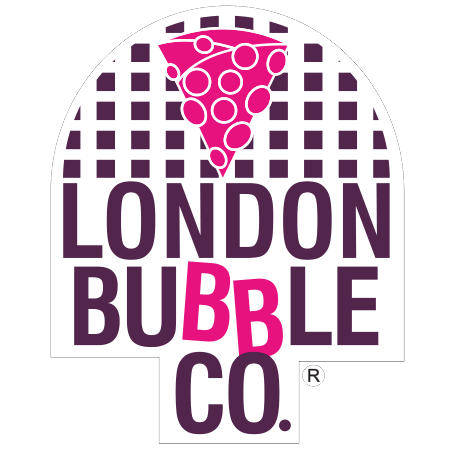
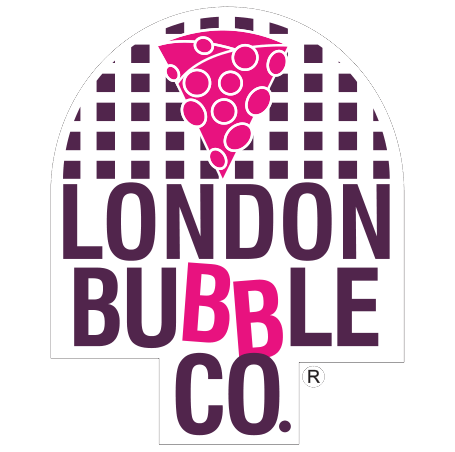
sponsors

diff --git a/src/Sections/Sponsors/Sponsors.jsx b/src/Sections/Sponsors/Sponsors.jsx
@@ -1,18 +1,4 @@
 import React, { useEffect } from "react";
-// import CC from "../../Assets/coca-cola-logo.png";
-// import P from "../../Assets/paytm.png";
-// import SC from "../../Assets/snapchat.png";
-// import SP from "../../Assets/spotify.png";
-// import IX from "../../Assets/ixigo.png";
-// import JB from "../../Assets/jetbrains.png";
-// import WO from "../../Assets/wooplr.png";
-// import IS from "../../Assets/internshala.png";
-// import ZP from "../../Assets/zebpay.png";
-// import GM from "../../Assets/geeksmate.png";
-// import YS from "../../Assets/yourstory.png";
-// import KK from "../../Assets/kaspersky.png";
-
-//NEW SPONSORS START FROM HERE
 import AW from "../../Assets/AWS.png";
 import DF from "../../Assets/Devfolio.png";
 import WS from "../../Assets/WSS.png";
@@ -26,9 +12,10 @@ import DS from "../../Assets/DSIJ.png";
 import EL from "../../Assets/ELM.png";
 import SE from "../../Assets/StockEdge.png";
 import DZ from "../../Assets/Drinkzy.jpg";
-import LB from "../../Assets/LondonBubble3.png";
+import LB from "../../Assets/LondonBubble.png";
 import GMC from "../../Assets/GMC.png";
 import NP from "../../Assets/NutriPanda.jpg";
+import SR from "../../Assets/scripts.png";
 
 import "./Sponsors.css";
 import Aos from "aos";
@@ -42,12 +29,12 @@ function Sponsors() {
   return (
     <div className="past-sponsors" id="sponsors">
       <div className="sponsor-head">
-        <span>Our Sponsors</span>
+        <span>Sponsors</span>
       </div>
       <div className="grid-container">
         <div data-aos="flip-up" className="grid-item">
           <a href="https://aws.amazon.com/">
-            <img className="awslogosm" src={AW} alt="Sponsor Logo" />
+            <img src={AW} alt="Sponsor Logo" />
           </a>
         </div>
         <div data-aos="flip-up" className="grid-item">
@@ -56,13 +43,13 @@ function Sponsors() {
           </a>
         </div>
         <div data-aos="flip-up" className="grid-item">
-          <a href="https://wharfstreetstrategies.com/index.html">
+          <a href="https://wharfstreetstrategies.com/">
             <img src={WS} alt="Sponsor Logo" />
           </a>
         </div>
         <div data-aos="flip-up" className="grid-item">
           <a href="https://xinfin.org/">
-            <img className="xinfinlogosm" src={XF} alt="Sponsor Logo" />
+            <img src={XF} alt="Sponsor Logo" />
           </a>
         </div>
         <div data-aos="flip-up" className="grid-item">
@@ -87,7 +74,7 @@ function Sponsors() {
         </div>
         <div data-aos="flip-up" className="grid-item">
           <a href="https://learningwhiletravelling.com/">
-            <img className="lwtlogosm" src={LW} alt="Sponsor Logo" />
+            <img src={LW} alt="Sponsor Logo" />
           </a>
         </div>
         <div data-aos="flip-up" className="grid-item">
@@ -102,7 +89,7 @@ function Sponsors() {
         </div>
         <div data-aos="flip-up" className="grid-item">
           <a href="https://stockedge.com/">
-            <img className="stockedgelogosm" src={SE} alt="Sponsor Logo" />
+            <img src={SE} alt="Sponsor Logo" />
           </a>
         </div>
         <div data-aos="flip-up" className="grid-item">
@@ -112,7 +99,7 @@ function Sponsors() {
         </div>
         <div data-aos="flip-up" className="grid-item">
           <a href="https://londonbubbleco.com/">
-            <img className="stockedgelogosm" src={LB} alt="Sponsor Logo" />
+            <img src={LB} alt="Sponsor Logo" />
           </a>
         </div>
         <div data-aos="flip-up" className="grid-item">
@@ -125,90 +112,11 @@ function Sponsors() {
             <img src={NP} alt="Sponsor Logo" />
           </a>
         </div>
-        {/* <div data-aos="flip-up" className="grid-item">
-          <a href="https://www.coca-colaindia.com/">
-            <img src={CC} alt="Sponsor Logo" />
+        <div data-aos="flip-up" className="grid-item">
+          <a href="https://www.scriptindia.org/">
+            <img src={SR} alt="Sponsor Logo" />
           </a>
         </div>
-        <div data-aos="flip-up" className="grid-item">
-          <a href="https://paytm.com/">
-            <img src={P} alt="Sponsor Logo" />
-          </a>
-        </div>
-        <div data-aos="flip-up" className="grid-item">
-          <a href="https://open.spotify.com/">
-            <img src={SP} alt="Sponsor Logo" />
-          </a>
-        </div>
-        <div data-aos="flip-up" className="grid-item">
-          <a href="https://www.jetbrains.com/">
-            <img src={JB} alt="Sponsor Logo" />
-          </a>
-        </div>
-        <div data-aos="flip-up" className="grid-item">
-          <a href="https://www.ixigo.com/">
-            <img src={IX} alt="Sponsor Logo" />
-          </a>
-        </div>
-        <div data-aos="flip-up" className="grid-item">
-          <a href="https://www.snapchat.com/">
-            <img src={SC} alt="Sponsor Logo" />
-          </a>
-        </div>
-        <div data-aos="flip-up" className="grid-item">
-          <a href="#sponsors">
-            <img src={WO} alt="Sponsor Logo" />
-          </a>
-        </div>
-        <div data-aos="flip-up" className="grid-item">
-          <a href="https://internshala.com/">
-            <img src={IS} alt="Sponsor Logo" />
-          </a>
-        </div>
-        <div data-aos="flip-up" className="grid-item">
-          <a href="https://zebpay.com/in/">
-            <img src={ZP} alt="Sponsor Logo" />
-          </a>
-        </div>
-        <div data-aos="flip-up" className="grid-item">
-          <a href="https://yourstory.com/">
-            <img src={YS} alt="Sponsor Logo" />
-          </a>
-        </div>
-        <div data-aos="flip-up" className="grid-item">
-          <a href="http://geeksmate.io/">
-            <img src={GM} alt="Sponsor Logo" />
-          </a>
-        </div>
-        <div data-aos="flip-up" className="grid-item">
-          <a href="https://www.kaspersky.co.in/">
-            <img src={KK} alt="Sponsor Logo" />
-          </a>
-        </div> */}
-        {/* <div data-aos="flip-up" className="grid-item">
-          <img src={SC} alt="Sponsor Logo" />
-        </div>
-        <div data-aos="flip-up" className="grid-item">
-          <img src={SC} alt="Sponsor Logo" />
-        </div>
-        <div data-aos="flip-up" className="grid-item">
-          <img src={SC} alt="Sponsor Logo" />
-        </div>
-        <div data-aos="flip-up" className="grid-item">
-          <img src={SC} alt="Sponsor Logo" />
-        </div>
-        <div data-aos="flip-up" className="grid-item">
-          <img src={SC} alt="Sponsor Logo" />
-        </div>
-        <div data-aos="flip-up" className="grid-item">
-          <img src={SC} alt="Sponsor Logo" />
-        </div>
-        <div data-aos="flip-up" className="grid-item">
-          <img src={SC} alt="Sponsor Logo" />
-        </div>
-        <div data-aos="flip-up" className="grid-item">
-          <img src={SC} alt="Sponsor Logo" />
-        </div> */}
       </div>
     </div>
   );

diff --git a/src/Sections/Sponsors/Sponsors.css b/src/Sections/Sponsors/Sponsors.css
@@ -10,23 +10,6 @@
 .past-sponsors .sponsor-head span {
   position: relative;
 }
-.awslogosm
-{
-  width:50%;
-}
-.stockedgelogosm
-{
-  width:30%;
-}
-.xinfinlogosm
-{
-  width:30%;
-}
-.lwtlogosm
-{
-  width:30%;
-}
-
 
 .grid-container a {
   text-align: center;
@@ -39,27 +22,33 @@
 
 .past-sponsors .grid-item {
   display: flex;
-  width: 25%;
+  width: 16%;
   height: 200px;
-  padding:20px;
+  padding: 20px;
   justify-content: center;
   align-items: center;
 }
 
 .past-sponsors .grid-item img {
-  max-width: 75%;
-  max-height: 200px;
+  max-width: 100%;
+  max-height: 100%;
 }
-.grid-item a{
+.grid-item a {
   display: flex;
   justify-content: center;
   align-items: center;
-  height: 90px;
+  height: 120px;
+  width: 100%;
   border-radius: 8px;
   padding: 10px;
   background: white;
 }
 
+@media screen and (max-width: 1600px) {
+  .past-sponsors .grid-item {
+    width: 20%;
+  }
+}
 
 @media screen and (max-width: 1200px) {
   .past-sponsors .grid-item {
@@ -72,9 +61,6 @@
     width: 45%;
     height: auto;
     padding: 30px 10px;
-  }
-  .past-sponsors .grid-item img {
-    max-height: 130px;
   }
   .past-sponsors .sponsor-head {
     font-size: 30px;

diff --git a/src/Sections/Landing/Landing.jsx b/src/Sections/Landing/Landing.jsx
@@ -8,7 +8,6 @@ import Sidebar from "../../Components/Sidebar/Sidebar";
 import Aos from "aos";
 import "aos/dist/aos.css";
 import { Link } from "react-scroll";
-import DISCORD from "../../Assets/discord.png";
 
 function Landing() {
   useEffect(() => {
@@ -69,8 +68,9 @@ function Landing() {
               The 4th edition of the biggest business fest in South India
             </p>
             <div>
-            <a className="btn2 btn2-primary" href="https://discord.gg/mtaDWMDPwH"> Discord Channel</a>
-              <br></br><br></br>
+              <a href="https://discord.gg/mtaDWMDPwH">
+                <button className="btn btn2-primary">Discord Channel</button>
+              </a> {" "}
               <Link to="events">
                 <button className="btn btn-primary">View Events</button>
               </Link>

diff --git a/src/Sections/Event/Event.jsx b/src/Sections/Event/Event.jsx
@@ -63,7 +63,7 @@ function Event() {
                 <div data-aos="flip-right">
                   <EventCard
                     head="E-Hack"
-                    link="https://ehack.ecellvit.com"
+                    link="https://ehack.ecellvit.com/"
                     reg="start"
                     content="E-Hack is an overnight Hackathon that aims to find the leaders of tomorrow. Challenging participants to come up with effective solutions to real-world problems, this event is one comprehensive test of grit, resilience and innovation."
                   />
